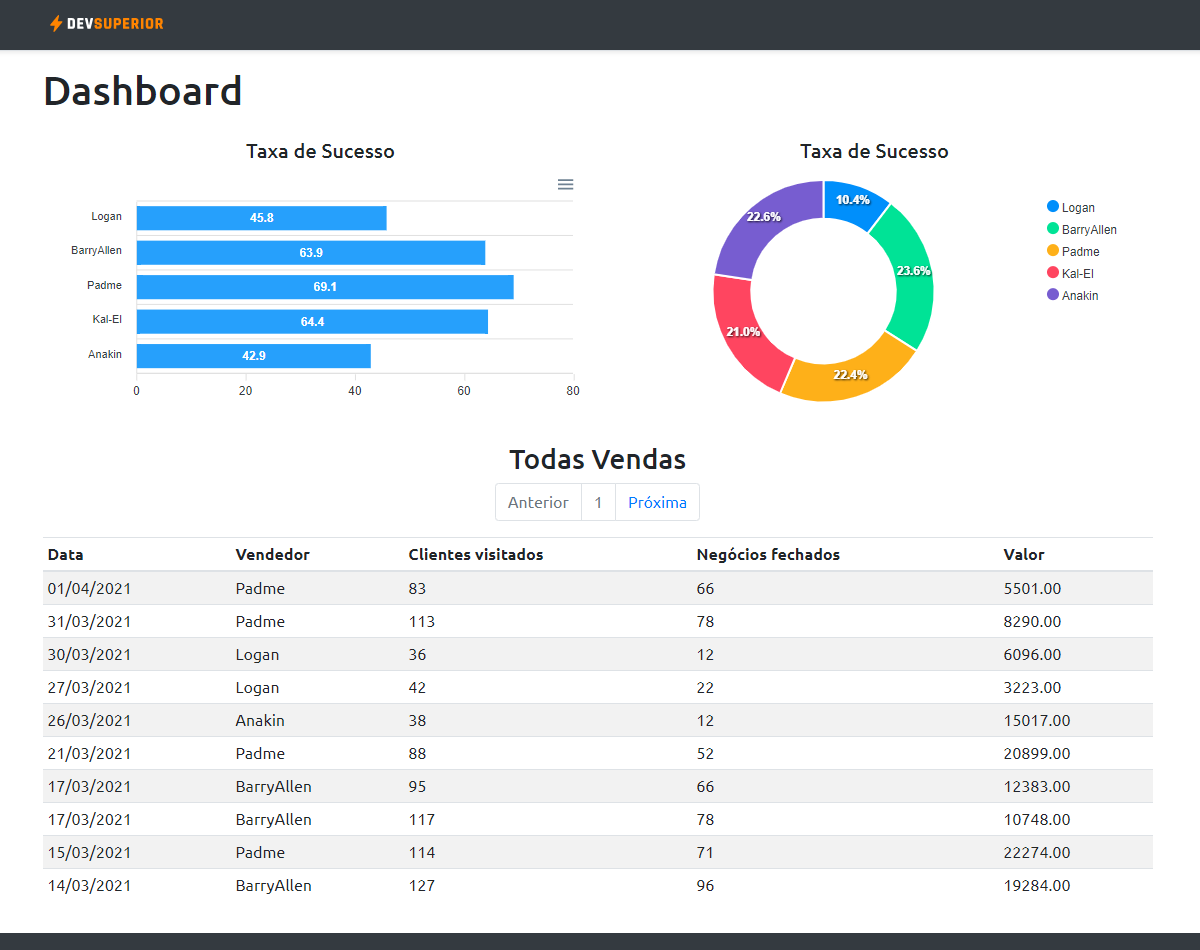
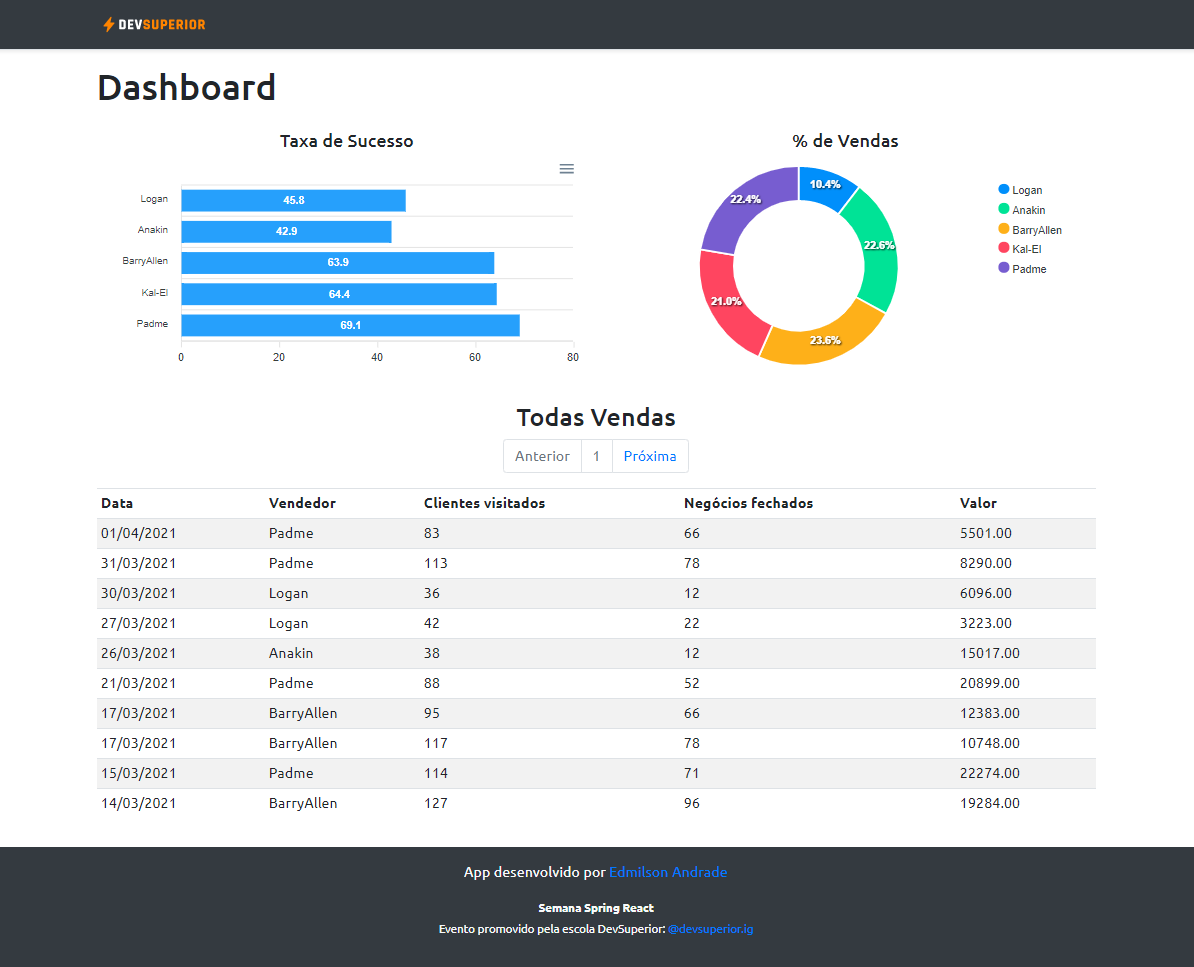
Update title

diff --git a/frontend/src/Page/Dashboard/index.tsx b/frontend/src/Page/Dashboard/index.tsx
@@ -17,7 +17,7 @@ function Dashboard() {
             <BarChart />
           </div>
           <div className="col-sm-6">
-            <h5 className="text-center">Taxa de Sucesso</h5>
+            <h5 className="text-center">% de Vendas</h5>
             <DonutChart/>
           </div>
         </div>
